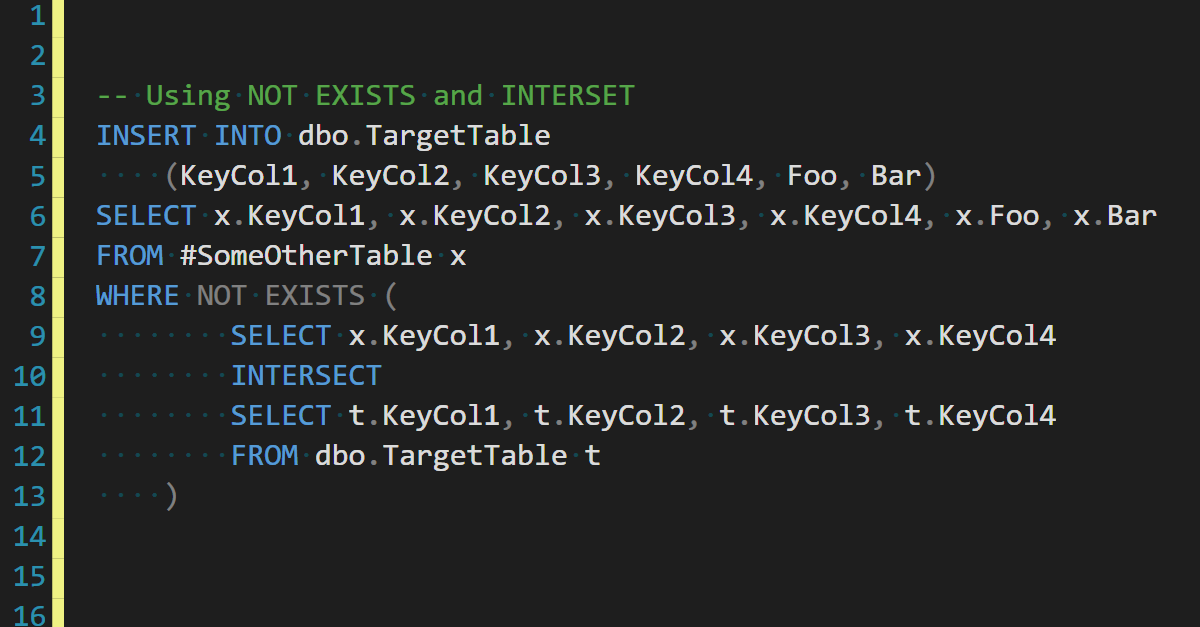
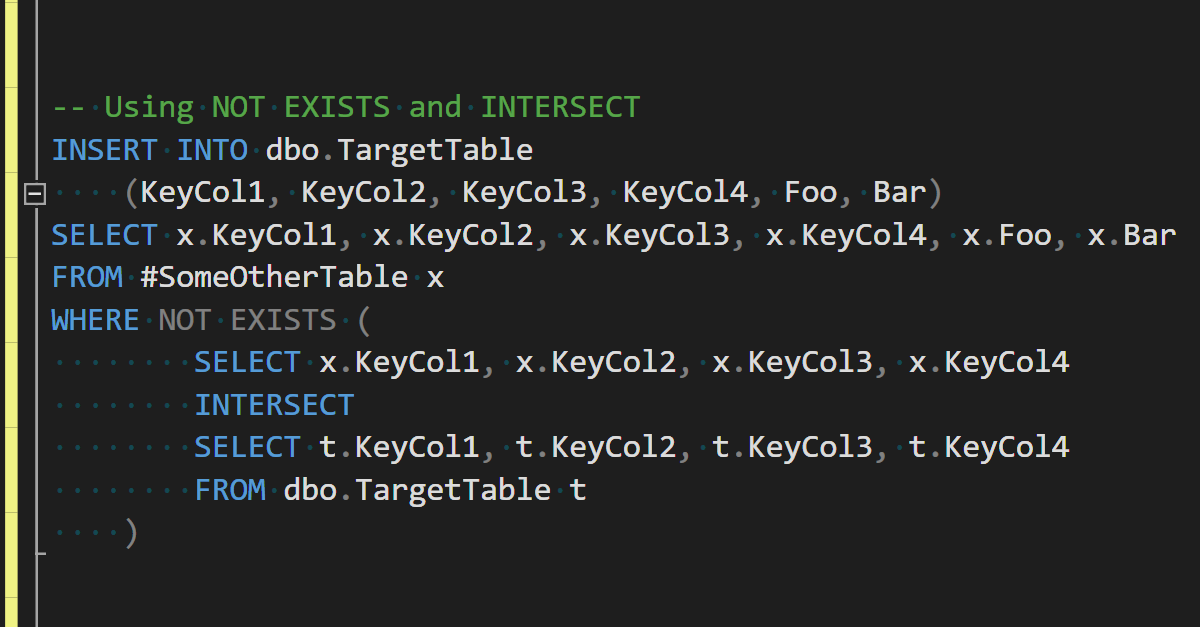
fix typos and markdown issues in blog post

Changed region(s): [[0.0, 0.0, 0.9867, 1.0], [0.0925, 0.8182, 0.1233, 0.8788]]

diff --git a/_posts/2021-10-08-insert-only-new-rows.md b/_posts/2021-10-08-insert-only-new-rows.md
@@ -21,7 +21,7 @@ In this post, instead of `EXISTS` and `EXCEPT` to look for records that are diff
 
 This task is normally not very high on the difficulty scale. Most people would use one of these two methods
 
-*  Lets say for whatever reason, you have a 4 part key `KeyCol1, KeyCol2, KeyCol3, KeyCol4`.
+* Lets say for whatever reason, you have a 4 part key `KeyCol1, KeyCol2, KeyCol3, KeyCol4`.
 
 ```tsql
 -- Using LEFT JOIN
@@ -58,7 +58,7 @@ This is where the post hooks back into "[only update rows that changed]({% post_
 My solution is to use the inverse of the update logic. Since we are not performing updates we don't need access to the target table within the scope of the `SELECT` statement. That means the table can also go into the `NOT EXISTS()` query.
 
 ```tsql
--- Using NOT EXISTS and INTERSET
+-- Using NOT EXISTS and INTERSECT
 INSERT INTO dbo.TargetTable (KeyCol1, KeyCol2, KeyCol3, KeyCol4, Foo, Bar)
 SELECT x.KeyCol1, x.KeyCol2, x.KeyCol3, x.KeyCol4, x.Foo, x.Bar
 FROM #SomeOtherTable x
